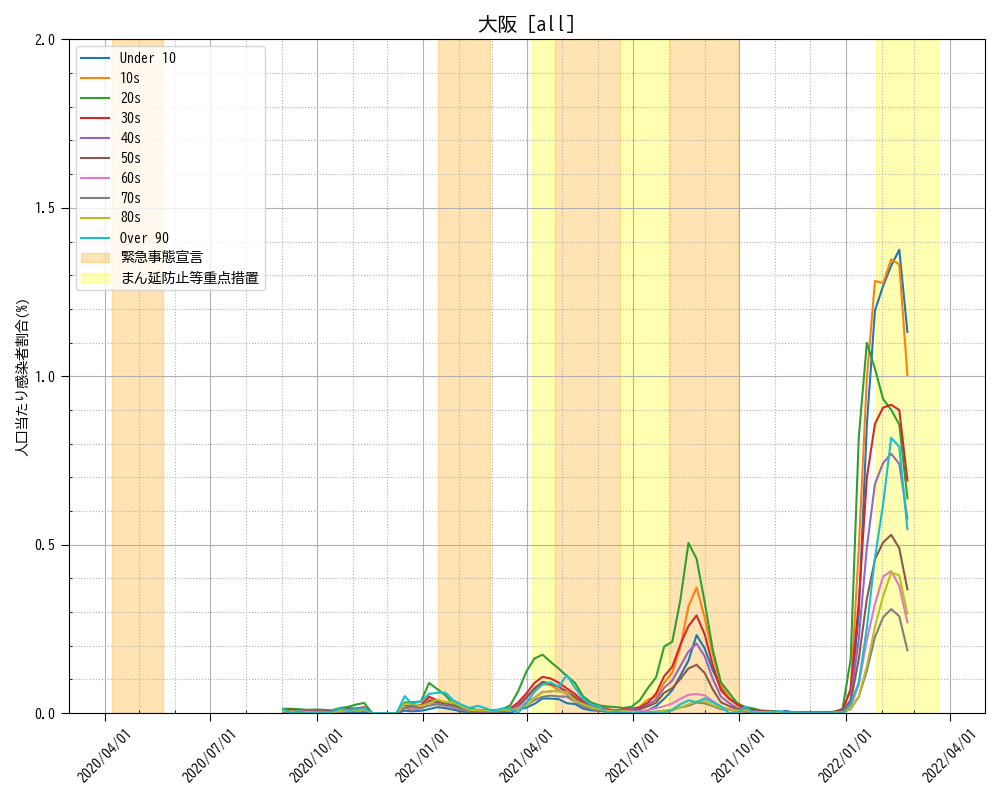
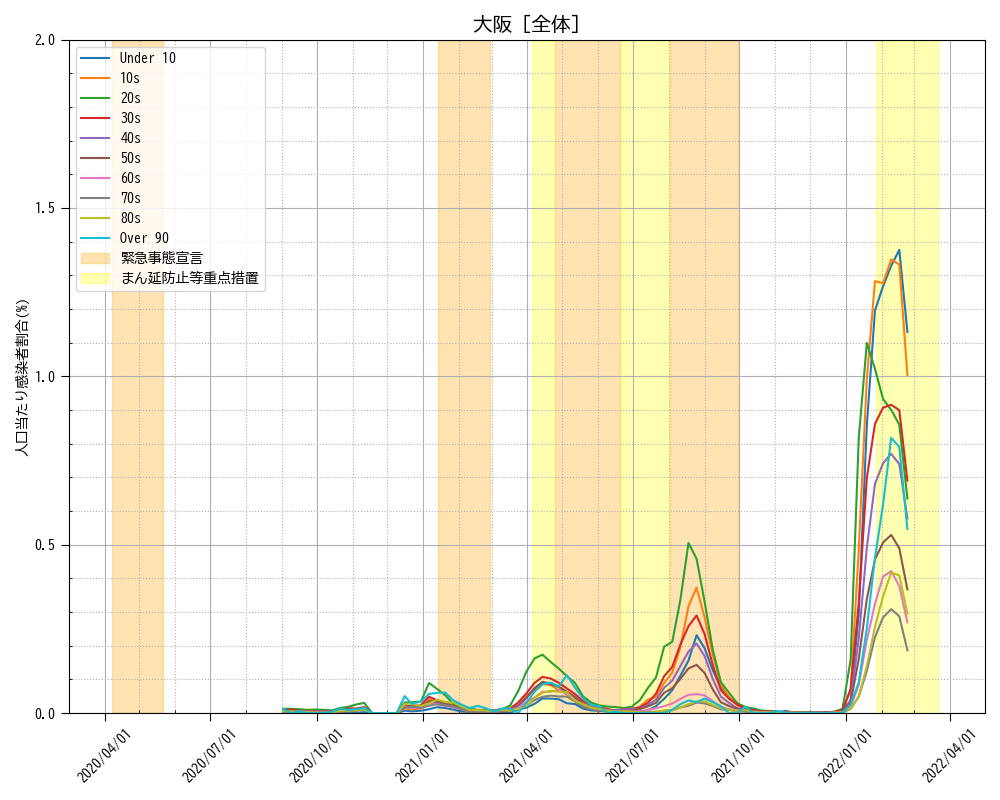
出力の集約単位クラスを導入

diff --git a/make_output_ratio.py b/make_output_ratio.py
@@ -7,6 +7,7 @@ import matplotlib.ticker as ticker
 from pandas import DataFrame, DatetimeIndex
 
 from graph_option import emergency_term, semi_emergency_term
+from type.AggregationUnit import AggregationUnit
 from type.Prefecture import Prefecture
 
 
@@ -36,7 +37,7 @@ def _calc_ratio(target_columns: list[str], df_population: DataFrame, df_infected
     return df_result.T
 
 
-def _make_graph_ratio(df_result: DataFrame, prefecture: Prefecture, target: str):
+def _make_graph_ratio(df_result: DataFrame, prefecture: Prefecture, target: AggregationUnit):
     # グラフ全体の設定
     plt.figure(figsize=(10.0, 8.0))  # 横、縦
     plt.plot(df_result, label=df_result.columns)
@@ -71,17 +72,17 @@ def _make_graph_ratio(df_result: DataFrame, prefecture: Prefecture, target: str)
 
     # 全体設定
     plt.legend(loc='upper left')
-    plt.title(f"{prefecture.name} [{target}]", fontsize=14)
+    plt.title(f"{prefecture.name} [{target.value.name}]", fontsize=14)
     plt.tight_layout()
-    plt.savefig(f"output/ratio_{prefecture.key}_{target}.png")
+    plt.savefig(f"output/ratio_{prefecture.key}_{target.value.key}.png")
     plt.close('all')
 
 
 def make_output_ratio(target_columns: list[str], population: dict[str, DataFrame], infected: dict[str, DataFrame]
-                      , prefecture: Prefecture, target: str):
+                      , prefecture: Prefecture, target: AggregationUnit):
     # 出力用にデータを加工
-    df_result = _calc_ratio(target_columns, population.get(target), infected.get(target))
+    df_result = _calc_ratio(target_columns, population.get(target.value.key), infected.get(target.value.key))
 
     # 出力
     _make_graph_ratio(df_result, prefecture, target)
-    df_result.to_csv(f'output/ratio_{prefecture.key}_{target}.csv', line_terminator="\n")
+    df_result.to_csv(f'output/ratio_{prefecture.key}_{target.value.key}.csv', line_terminator="\n")

diff --git a/make_output_row.py b/make_output_row.py
@@ -5,10 +5,12 @@ import matplotlib.ticker as ticker
 from pandas import DataFrame
 
 from graph_option import emergency_term, semi_emergency_term
+from type.AggregationUnit import AggregationUnit
 from type.Prefecture import Prefecture
 
 
-def _make_graph_row(df_population, df_infected, prefecture: Prefecture, target):
+def _make_graph_row(df_population: DataFrame, df_infected: DataFrame
+                    , prefecture: Prefecture, target: AggregationUnit):
     # グラフ全体の設定
     plt.figure(figsize=(10.0, 8.0))  # 横、縦
     plt.plot(df_infected, label=df_infected.columns)
@@ -50,20 +52,20 @@ def _make_graph_row(df_population, df_infected, prefecture: Prefecture, target):
     ax2.set_ylabel('人口')
 
     # 全体設定
-    plt.title(f"{prefecture.name} [{target}]", fontsize=14)
+    plt.title(f"{prefecture.name} [{target.value.name}]", fontsize=14)
     plt.tight_layout()
-    plt.savefig(f"output/row_{prefecture.key}_{target}.png")
+    plt.savefig(f"output/row_{prefecture.key}_{target.value.key}.png")
     plt.close('all')
 
 
 def make_output_row(target_columns: list[str], population: dict[str, DataFrame], infected: dict[str, DataFrame]
-                    , prefecture: Prefecture, target: str):
-    df_population = population.get(target)
+                    , prefecture: Prefecture, target: AggregationUnit):
+    df_population = population.get(target.value.key)
 
-    df_infected = infected.get(target)
+    df_infected = infected.get(target.value.key)
     df_infected.reset_index(inplace=True)
     df_infected.set_index('week_start', inplace=True)
 
     # 出力
     _make_graph_row(df_population, df_infected[target_columns], prefecture, target)
-    df_population.to_csv(f'output/row_{prefecture.key}_{target}.csv', line_terminator="\n")
+    df_population.to_csv(f'output/row_{prefecture.key}_{target.value.key}.csv', line_terminator="\n")

diff --git a/main.py b/main.py
@@ -4,6 +4,7 @@ from make_output_row import make_output_row
 from read_infected import read_infected
 from read_population_osaka_fu import read_population_osaka_fu
 from make_output_ratio import make_output_ratio
+from type.AggregationUnit import AggregationUnit
 from type.Prefecture import Prefecture
 
 if __name__ == '__main__':
@@ -22,9 +23,9 @@ if __name__ == '__main__':
     matplotlib.rc('font', family='BIZ UDGothic')
 
     # 出力(割合)
-    make_output_ratio(_period_array, population, infected, osaka, 'male')
-    make_output_ratio(_period_array, population, infected, osaka, 'female')
-    make_output_ratio(_period_array, population, infected, osaka, 'all')
+    make_output_ratio(_period_array, population, infected, osaka, AggregationUnit.MALE)
+    make_output_ratio(_period_array, population, infected, osaka, AggregationUnit.FEMALE)
+    make_output_ratio(_period_array, population, infected, osaka, AggregationUnit.ALL)
 
     # 出力(生値)
-    make_output_row(_period_array, population, infected, osaka, 'male')
+    make_output_row(_period_array, population, infected, osaka, AggregationUnit.MALE)

diff --git a/type/Unit.py b/type/Unit.py
@@ -1,0 +1,17 @@
+class Unit:
+    """
+    出力の集約単位
+
+    Args:
+        key(str) データに指定しているキー値
+        name(str) 表記に使う日本語名称
+    """
+    key: str
+    name: str
+
+    def __init__(self, key: str, name: str):
+        self.key = key
+        self.name = name
+
+    def __str__(self):
+        return self.key + ':' + self.name

diff --git a/type/AggregationUnit.py b/type/AggregationUnit.py
@@ -1,0 +1,9 @@
+from enum import Enum
+
+from type.Unit import Unit
+
+
+class AggregationUnit(Enum):
+    ALL = Unit('all', '全体')
+    MALE = Unit('male', '男性')
+    FEMALE = Unit('female', '女性')
